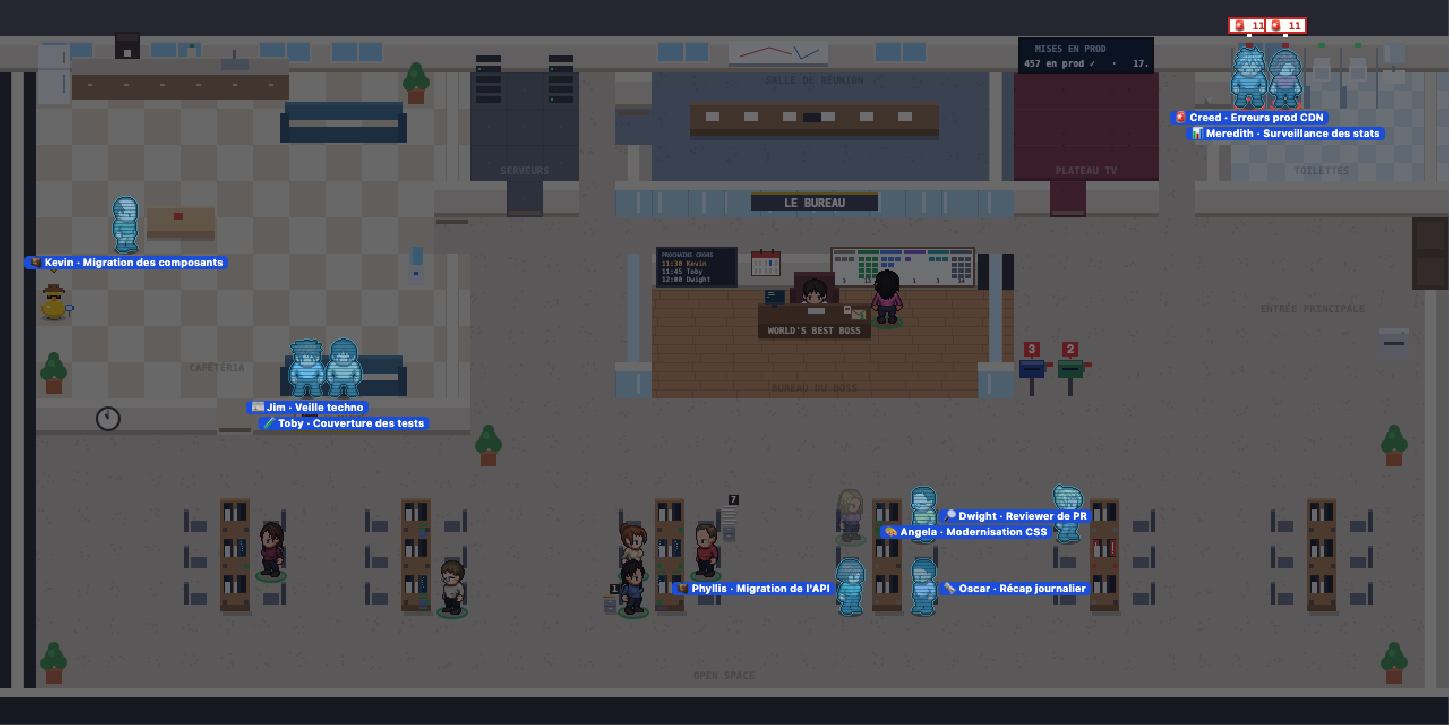
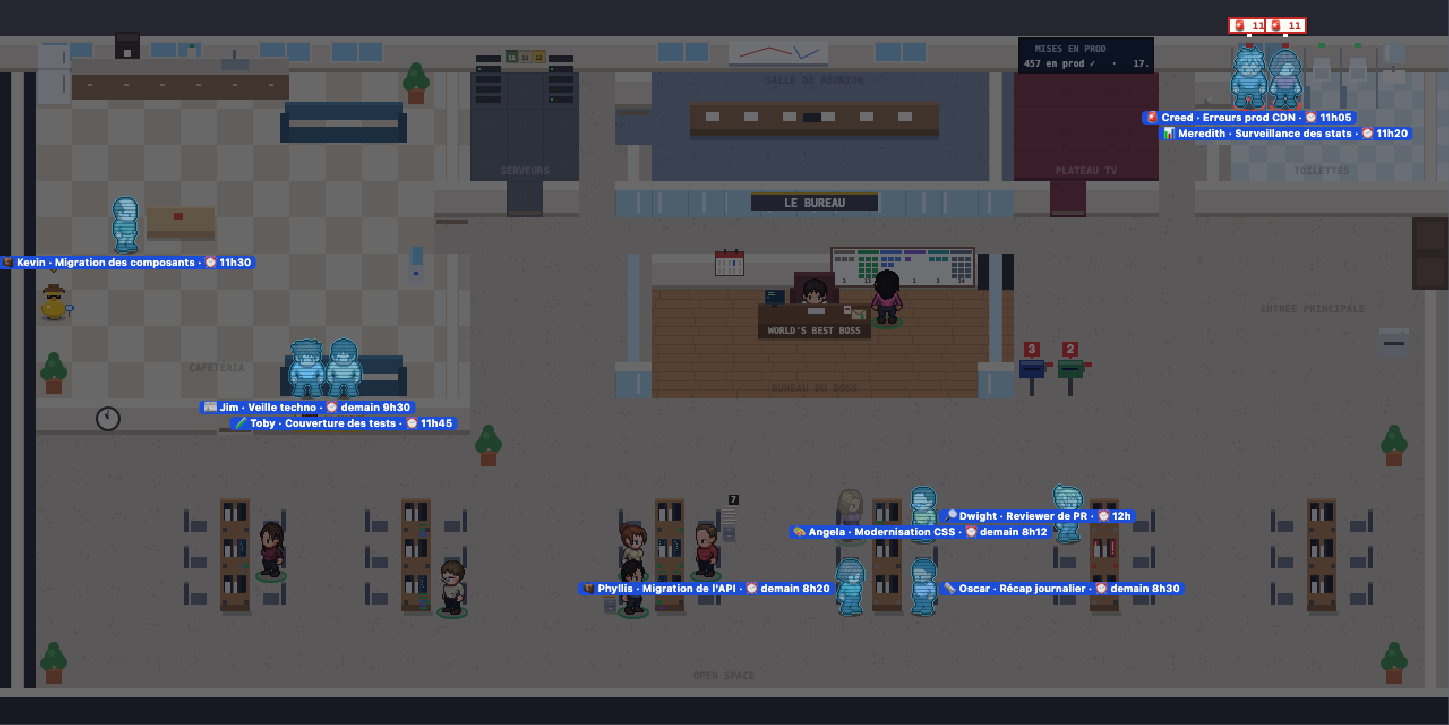
feat(page): programme des agents cron en clair, relance sans paramètres (#73)
## 🎯 Quoi et pourquoi
Sur la fiche de Dwight (agent « Reviewer de PR »), « ↻ Relancer »
ouvrait une carte Kronn qui demandait des « Paramètres » : le bouton et
« ▶ Lancer… » visent le même workflow « Le Bureau · relancer un workflow
», et sa variable `params` n'était liée que par « ▶ Lancer… ». Et rien
sur la fiche ni sur le plan ne disait qu'un agent est un cron, quand il
passe, ni à quelle heure : Kronn lit les crons en UTC (Dwight passe en
fait de 9h30 à 21h30, heure de Paris).

## 🔧 Changements
- Fiche d'un agent cron : section « ⏰ Son programme », un bloc par cron
: programme en clair à l'heure du bureau (« Du lundi au vendredi toutes
les 3 heures de 9h30 à 21h30 »), anneau jusqu'au prochain passage («
Prochain passage aujourd'hui à 12h (dans 1 h) »), dernier passage du
jour, et « ↻ Passer maintenant » sans rien à remplir. Ses crons ne
reviennent plus dans « Relancer » (réservé aux workflows manuels).
- Plan et panneau : l’étiquette d’un agent cron au repos donne l’heure
de son prochain passage (« ⏰ 12h », « ⏰ demain 8h20 », « ⏰ lundi 9h30
»), et la liste « Les agents » du panneau l’affiche sous son état ; rien
quand il travaille ni en mode TV.
- `page/src/34-cron.js` : `cronText`, `cronNext` / `cronPrev` (8 jours,
gardés à la minute), `whenTxt`, `agentNext` ; le `nextFire` du panneau
Fraîcheur est remplacé par `cronNext` (texte de reprise : « 7h » au lieu
de « 7h00 »).
- Relance sans paramètres : `bureau-relaunch` lie aussi `params` à une
[…]

diff --git a/tests/cron.test.js b/tests/cron.test.js
@@ -1,0 +1,78 @@
+// Agent cron : programme en clair à l'heure du bureau (Kronn lit les crons en UTC), prochain passage sur la fiche
+// (« ⏰ Son programme », « ↻ Passer maintenant ») et dans l'étiquette du plan ; relance sans carte à remplir.
+'use strict';
+const test = require('node:test');
+const assert = require('node:assert/strict');
+const {load} = require('./helpers/page.js');
+
+const {run} = load();
+const J = code => JSON.parse(run('JSON.stringify(' + code + ')'));
+const OCT = 'Date.parse("2026-10-17T20:00:00Z")'; // samedi 17 octobre, 22h à Paris (heure d'été)
+const JAN = 'Date.parse("2026-01-14T10:00:00Z")'; // mercredi 14 janvier, heure d'hiver
+
+test('programme en clair : heures UTC du cron dites à l\'heure de Paris, jours regroupés', () => {
+  const txt = (e, t = OCT) => J(`cronText(${JSON.stringify(e)}, ${t})`);
+  assert.equal(txt('30 7,10,13,16,19 * * 1-5'), 'Du lundi au vendredi toutes les 3 heures de 9h30 à 21h30');
+  assert.equal(txt('30 7,10,13,16,19 * * 1-5', JAN), 'Du lundi au vendredi toutes les 3 heures de 8h30 à 20h30', 'heure d\'hiver');
+  assert.equal(txt('45 9 * * *'), 'Tous les jours à 11h45');
+  assert.equal(txt('30 7 * * 1-5'), 'Du lundi au vendredi à 9h30');
+  assert.equal(txt('0 12 * * 5'), 'Le vendredi à 14h');
+  assert.equal(txt('5 * * * *'), 'Toutes les heures, à la minute 05');
+  assert.equal(txt('0 * * * *'), 'Toutes les heures pile');
+  assert.equal(txt('*/10 4-20 * * *'), 'Toutes les 10 min de 6h à 22h50');
+  assert.equal(txt('* 4-20 * * *'), 'Toutes les minutes de 6h à 22h59');
+  assert.equal(txt('0 8 * * 6,0'), 'Le week-end à 10h');
+  assert.equal(txt('0 8 * * 1,3'), 'Le lundi et mercredi à 10h');
+  assert.equal(txt('0 7,9 * * 1'), 'Le lundi à 9h et 11h');
+  assert.equal(txt('0 6 1 1 *'), 'Cron « 0 6 1 1 * » (heure UTC)', 'rien dans les 7 jours : le cron tel quel');
+});
+
+test('prochain et précédent passage ; « demain », jour de la semaine, « dans … »', () => {
+  const e = JSON.stringify('30 7,10,13,16,19 * * 1-5');
+  const nx = J(`cronNext(${e}, ${OCT})`);
+  assert.equal(new Date(nx).toISOString(), '2026-10-19T07:30:00.000Z', 'lundi 9h30 à Paris');
+  assert.equal(new Date(J(`cronPrev(${e}, ${OCT})`)).toISOString(), '2026-10-16T19:30:00.000Z', 'vendredi 21h30');
+  assert.equal(J(`whenTxt(${nx}, ${OCT})`), 'lundi 9h30');
+  assert.equal(J(`whenTxt(${nx}, ${nx} - 3600e3*12)`), 'demain 9h30');
+  assert.equal(J(`whenTxt(${nx}, ${nx} - 3600e3)`), '9h30');
+  assert.equal(J(`whenTxt(${nx}, ${nx} - 3600e3, 1)`), "aujourd'hui à 9h30");
+  assert.equal(J(`whenTxt(${nx}, ${OCT}, 1)`), 'lundi à 9h30');
+  assert.equal(J(`inTxt(65*60e3)`), 'dans 1 h 05');
+  assert.equal(J(`inTxt(30e3)`), 'dans 1 min');
+  assert.equal(J(`inTxt(3*864e5)`), 'dans 3 j');
+  assert.equal(J(`cronNext("0 6 1 1 *", ${OCT})`), null, 'plus de 8 jours : pas de prochain passage');
+});
+
+test('crons d\'un agent (DATA.crons) : prochain passage le plus proche ; étiquette du plan, sauf au travail ou en mode TV', () => {
+  run(`DATA.crons=[{wf:'aaaa1111-0000',name:'Revue',schedule:'0 10 * * *'},{wf:'bbbb2222-0000',name:'Veille',schedule:'0 8 * * *'}];
+    var AG={key:'zz',name:'Dwight',role:'Revue des PR',wf:['aaaa1111','bbbb2222','cccc3333'],runs:[],_st:{st:'idle'}};T=${OCT};`);
+  assert.deepEqual(J('cronsOf(AG).map(x=>x.name)'), ['Revue', 'Veille']);
+  assert.equal(new Date(J('agentNext(AG,T)')).toISOString(), '2026-10-18T08:00:00.000Z');
+  assert.match(J('labelText(AG)'), / · ⏰ demain 10h$/);
+  assert.equal(J('cronTag(AG)'), '⏰ demain 10h', 'même texte sous son état, dans la liste du panneau');
+  assert.doesNotMatch(J('(AG._st={st:"work"},labelText(AG))'), /⏰/, 'au travail : pas d\'heure');
+  assert.doesNotMatch(J('(AG._st={st:"idle"},TV=true,labelText(AG))'), /⏰/, 'mode TV');
+  run('TV=false');
+  assert.doesNotMatch(J('labelText({key:"m",name:"Clark",role:"Issue GitHub",wf:["dddd4444"],runs:[],_st:{}})'), /⏰/, 'agent manuel');
+});
+
+test('fiche : « ⏰ Son programme » pour chaque cron, « ↻ Passer maintenant » lié à la ligne (wf_id et params), hors de « Relancer »', () => {
+  run(`document.createElement = t => ({tag: t, attrs: {}, kids: [], style: {}, dataset: {}, set innerHTML(v) { this.html = v; }, get innerHTML() { return this.html || ''; },
+      setAttribute(k, v) { this.attrs[k] = v; }, getAttribute(k) { return this.attrs[k]; }, appendChild(x) { this.kids.push(x); }, append(...x) { this.kids.push(...x); },
+      addEventListener() {}});
+    var MO = typeof MutationObserver === 'undefined' ? null : MutationObserver; MutationObserver = function () { this.observe = () => {}; };
+    kronnModal = () => {}; COLLAPSED = {};
+    ACTIONS.relaunch = true; TV = false;
+    RELAUNCH = [{wf: 'aaaa1111-0000', name: 'Revue', trigger: 'cron', params: ''}, {wf: 'cccc3333-0000', name: 'Manuel', trigger: 'manual', params: ''}];
+    var SIDE = {kids: [], appendChild(x) { this.kids.push(x); }};`);
+  run('programmeBlock(SIDE, AG); relaunchBlock(SIDE, AG);');
+  const out = J(`(() => { const all = []; const walk = n => { if (!n) return; all.push(n); (n.kids || []).forEach(walk); }; SIDE.kids.forEach(walk);
+    return {heads: all.filter(n => n.tag === 'h2').map(n => n.html), btns: all.filter(n => n.tag === 'button').map(n => ({t: n.textContent, b: n.attrs['data-kronn-bindings']})),
+      html: all.map(n => n.html || '').join('')}; })()`);
+  assert.match(out.heads[0], /⏰ Son programme/);
+  assert.match(out.heads[1], /Relancer/);
+  assert.match(out.html, /Tous les jours à 12h/);
+  assert.match(out.html, /Prochain passage demain à 12h \(dans 14 h\)/);
+  assert.deepEqual(out.btns, [{t: '↻ Passer maintenant', b: '{"wf_id":"aaaa1111-0000","params":"aaaa1111-0000"}'},
+    {t: '↻ Relancer', b: '{"wf_id":"cccc3333-0000","params":"cccc3333-0000"}'}], 'le cron n\'est pas relancé deux fois');
+});

diff --git a/page/src/55-actions.js b/page/src/55-actions.js
@@ -213,28 +213,48 @@ function askBlock(side,c){
     host.appendChild(b);kronnModal(host,b,'Poser une question à '+c.name);box.appendChild(host);
   }
 }
+// bouton « ↻ » d'un workflow relançable (ligne de gates.workflows) : page action « bureau-relaunch », sans rien à saisir
+// (params lié à la colonne vide de la ligne, comme wf_id) ; « En cours… » tant qu'un run de ce workflow tourne
+function relaunchBtn(host,w,c,label,note){
+  const busy=c.runs.some(r=>String(r.wf).startsWith(String(w.wf).slice(0,8))&&['Running','Pending','WaitingApproval'].includes(r.status)&&r._s<=T);
+  const b=document.createElement('button');b.textContent=busy?'En cours…':label;b.disabled=busy;
+  if(busy){host.appendChild(b);return;}
+  b.setAttribute('data-kronn-action','bureau-relaunch');b.setAttribute('data-kronn-bindings',JSON.stringify({wf_id:w.wf,params:w.wf}));
+  const n=document.createElement('div');n.className='note';n.style.margin='6px 0 0';n.textContent=note;
+  new MutationObserver(()=>{
+    const v=b.getAttribute('data-kronn-action-state');
+    if(v==='succeeded')n.innerHTML='<b style="color:var(--ok)">✓ Relancé.</b> L\'agent se met au travail d\'ici une minute sur le plan.';else if(v==='failed')n.innerHTML='<b style="color:var(--err)">Relance refusée</b> (déjà en cours ?). Détail dans la carte.';
+  }).observe(b,{attributes:true,attributeFilter:['data-kronn-action-state']});
+  host.append(b,n);kronnModal(host,b,'Relancer un workflow');
+}
+const lastRun=(c,w)=>c.top&&c.top.filter(r=>String(r.wf).startsWith(String(w.wf).slice(0,8))&&r._s<=T).slice(-1)[0];
+// agent cron : « ⏰ Son programme », un bloc par cron (programme en clair, anneau jusqu'au prochain passage, dernier run)
+// et « ↻ Passer maintenant » s'il est relançable ; ses crons ne reviennent pas dans « Relancer »
+function programmeBlock(side,c){
+  const list=cronsOf(c);if(!list.length)return;
+  const box=foldSection(side,'programme','⏰ Son programme',null,true);
+  for(const x of list){
+    const nx=cronNext(x.schedule,T), pv=cronPrev(x.schedule,T), last=lastRun(c,x);
+    const frac=nx&&pv?(T-pv)/(nx-pv):0;
+    const host=document.createElement('div');host.className='relaunch rl-cron';host.setAttribute('data-kronn-action-slot-host','');
+    host.innerHTML=`<div class="rl-n">${esc(clean(x.name))}</div><div class="cronbox"><span class="ring">${freshRing(frac,28)}</span><div><b>${esc(cronText(x.schedule,T))}</b><small>`+
+      (nx!=null?'Prochain passage '+whenTxt(nx,T,1)+' ('+inTxt(nx-T)+')':'Pas de passage cette semaine')+(last?' · dernier à '+hhm(last._s)+' : '+esc((STATUS_TXT[last.status]||last.status).toLowerCase()):'')+'</small></div></div>';
+    const w=ACTIONS.relaunch&&!TV&&RELAUNCH.find(r=>r.wf===x.wf&&!r.bureau);
+    if(w)relaunchBtn(host,w,c,'↻ Passer maintenant','Rien à remplir : un passage en plus, tout de suite. Son programme ne change pas.');
+    box.appendChild(host);
+  }
+}
 function relaunchBlock(side,c){
   if(!ACTIONS.relaunch)return;
   if(!c.wf||!c.wf.length)return;
-  const list=RELAUNCH.filter(w=>c.wf.includes(String(w.wf).slice(0,8)));if(!list.length)return;
+  const crons=cronsOf(c).map(x=>x.wf);
+  const list=RELAUNCH.filter(w=>c.wf.includes(String(w.wf).slice(0,8))&&!crons.includes(w.wf));if(!list.length)return;
   const box=foldSection(side,'relance','Relancer',list.length,true);
   for(const w of list){
     const host=document.createElement('div');host.className='relaunch';host.setAttribute('data-kronn-action-slot-host','');
-    const busy=c.runs.some(r=>String(r.wf).startsWith(String(w.wf).slice(0,8))&&['Running','Pending','WaitingApproval'].includes(r.status)&&r._s<=T);
-    const last=c.top&&c.top.filter(r=>String(r.wf).startsWith(String(w.wf).slice(0,8))&&r._s<=T).slice(-1)[0];
+    const last=lastRun(c,w);
     host.innerHTML=`<div class="rl-n">${esc(clean(w.name))}</div><div class="rl-s">${w.trigger==='cron'?'Cron':'Manuel'}${last?' · dernier run '+hm(last._s)+' : '+esc(STATUS_TXT[last.status]||last.status):' · pas encore lancé aujourd’hui'}</div>`;
-    const b=document.createElement('button');b.textContent=busy?'En cours…':'↻ Relancer';b.disabled=busy;
-    if(!busy){b.setAttribute('data-kronn-action','bureau-relaunch');b.setAttribute('data-kronn-bindings',JSON.stringify({wf_id:w.wf}));
-      const n=document.createElement('div');
-      n.className='note';
-      n.style.margin='6px 0 0';
-      n.textContent='Lance tout de suite un nouveau run de ce workflow, en plus de ses passages prévus.';
-      new MutationObserver(()=>{
-        const v=b.getAttribute('data-kronn-action-state');
-        if(v==='succeeded')n.innerHTML='<b style="color:var(--ok)">✓ Relancé.</b> L\'agent se met au travail d\'ici une minute sur le plan.';else if(v==='failed')n.innerHTML='<b style="color:var(--err)">Relance refusée</b> (déjà en cours ?). Détail dans la carte.';
-      }).observe(b,{attributes:true,attributeFilter:['data-kronn-action-state']});
-      host.append(b,n);kronnModal(host,b,'Relancer un workflow');}
-    else host.appendChild(b);
+    relaunchBtn(host,w,c,'↻ Relancer','Lance tout de suite un nouveau run de ce workflow, en plus de ses passages prévus.');
     box.appendChild(host);
   }
 }

diff --git a/page/src/34-cron.js b/page/src/34-cron.js
@@ -1,0 +1,46 @@
+// programme d'un agent cron en clair : Kronn lit les crons en UTC (cronMatch), on les dit à l'heure du bureau (RHYTHM.timezone).
+// cronText : les passages de la semaine (7 jours entiers depuis minuit), regroupés par jours qui ont les mêmes heures ;
+// cronNext / cronPrev : passage suivant / précédent (8 jours au plus), gardés à la minute ; agentNext : le plus proche des
+// crons d'un agent (DATA.crons).
+const WEEK=Object.keys(DAY_FR); // lundi d'abord
+const hhm=t=>{const p=parisHM(t);return p.h+'h'+(p.m?String(p.m).padStart(2,'0'):'');};
+const andList=a=>a.length<2?a[0]:a.slice(0,-1).join(', ')+' et '+a[a.length-1];
+function cronDays(ds){
+  const k=WEEK.map((d,i)=>ds.includes(d)?i:-1).filter(i=>i>=0), n=k.length, f=i=>DAY_FR[WEEK[i]];
+  return n===7?'tous les jours':n===2&&k[0]===5?'le week-end':n>2&&k[n-1]-k[0]===n-1?'du '+f(k[0])+' au '+f(k[n-1]):'le '+andList(k.map(f));
+}
+function cronTimes(ts){
+  const st=(ts[1]-ts[0])/60e3, n=ts.length;
+  if(n<4||ts.some((t,i)=>i&&t-ts[i-1]!==st*60e3))return 'à '+andList(ts.map(hhm));
+  if(st===60&&n===24){const m=parisHM(ts[0]).m;return 'toutes les heures'+(m?', à la minute '+String(m).padStart(2,'0'):' pile');}
+  return 'toutes les '+(st===1?'minutes':st===60?'heures':st%60?st+' min':st/60+' heures')+' de '+hhm(ts[0])+' à '+hhm(ts[n-1]);
+}
+const CRON_MEMO={};
+function cronMemo(k,f){if(!(k in CRON_MEMO)){if(Object.keys(CRON_MEMO).length>400)for(const x in CRON_MEMO)delete CRON_MEMO[x];CRON_MEMO[k]=f();}return CRON_MEMO[k];}
+function cronText(e,t){
+  return cronMemo('t'+e+parisDay(t),()=>{
+    const by={},g={};let m=parisMidnight(t);
+    for(let i=0;i<10080;i++,m+=60e3)if(cronMatch(e,new Date(m)))(by[parisHM(m).wd]=by[parisHM(m).wd]||[]).push(m);
+    for(const wd in by){const k=by[wd].map(hhm).join();(g[k]=g[k]||{wd:[],ts:by[wd]}).wd.push(wd);}
+    const out=Object.values(g).map(x=>{const d=cronDays(x.wd),h=cronTimes(x.ts);return d[0]==='t'&&h[0]==='t'?h:d+' '+h;});
+    return out.length?out.join(' ; ').replace(/^./,x=>x.toUpperCase()):'Cron « '+e+' » (heure UTC)';
+  });
+}
+function cronStep(e,t,dir){
+  return cronMemo(dir+e+Math.floor(t/60e3),()=>{
+    let m=Math.floor(t/60e3)*60e3+(dir>0?60e3:0);
+    for(let i=0;i<11520;i++,m+=dir*60e3)if(cronMatch(e,new Date(m)))return m;
+    return null;
+  });
+}
+const cronNext=(e,t)=>cronStep(e,t,1), cronPrev=(e,t)=>cronStep(e,t,-1);
+// « 12h », « demain 8h20 », « lundi 9h30 » ; long : « aujourd'hui à 12h », « demain à 8h20 »
+function whenTxt(at,t,long){
+  const d=parisDay(at), day=d===parisDay(t)?'':d===parisDay(t+864e5)?'demain':DAY_FR[parisHM(at).wd];
+  return long?(day||"aujourd'hui")+' à '+hhm(at):(day&&day+' ')+hhm(at);
+}
+const inTxt=n=>{const m=Math.max(1,Math.round(n/60e3));return 'dans '+(n>=1296e5?Math.round(n/864e5)+' j':m%60?hmin(m):m/60+' h');};
+const cronsOf=c=>((DATA&&DATA.crons)||[]).filter(x=>x.schedule&&(c.wf||[]).some(w=>String(x.wf).startsWith(String(w).slice(0,8))));
+const agentNext=(c,t)=>cronsOf(c).map(x=>cronNext(x.schedule,t)).filter(n=>n!=null).sort((a,b)=>a-b)[0];
+// « ⏰ demain 8h20 » d'un agent cron au repos (étiquette du plan, liste du panneau) ; rien au travail ni en mode TV
+const cronTag=c=>{const n=!TV&&!AGENT_BUSY.includes((c._st||{}).st)&&agentNext(c,T);return n?'⏰ '+whenTxt(n,T):'';};

diff --git a/page/src/33-freshness.js b/page/src/33-freshness.js
@@ -15,17 +15,11 @@ function cronOf(key){
   const id=(CFG.workflows||{})[key]; if(!id||!DATA)return null;
   const c=(DATA.crons||[]).find(x=>x.wf===id);return c&&c.schedule||null;
 }
-// prochain déclenchement du cron strictement après t (pas d'une minute, au plus 3 jours)
-function nextFire(schedule,t){
-  let m=Math.floor(t/60e3)*60e3+60e3;
-  for(let i=0;i<3*1440;i++,m+=60e3)if(cronMatch(schedule,new Date(m)))return m;
-  return null;
-}
 // état d'une source à l'instant now : âge, arrivée prévue, retard
 function freshness(src,now){
   const gen=ms(src.gen()); if(!gen)return null;
   const sch=cronOf(src.key), run=Math.min(60e3,Math.max(2e3,gen-Math.floor(gen/60e3)*60e3)); // durée du dernier run
-  const next=sch?nextFire(sch,gen):gen+src.period, eta=next!=null?next+run+3e3:null;
+  const next=sch?cronNext(sch,gen):gen+src.period, eta=next!=null?next+run+3e3:null;
   return {src,gen,age:now-gen,eta,late:eta!=null&&now>eta+src.grace?now-eta:0};
 }
 // anneau de progression (couleur = currentColor)
@@ -40,8 +34,7 @@ const DAY_FR={Mon:'lundi',Tue:'mardi',Wed:'mercredi',Thu:'jeudi',Fri:'vendredi',
 function waitTxt(f,now){
   const left=f.eta-now, frac=Math.min(1,Math.max(0,(now-f.gen)/Math.max(1,f.eta-f.gen)));
   if(f.eta-f.gen>3*f.src.period&&left>5*60e3){ // le cron ne tourne pas à ces heures-là
-    const d=parisDay(f.eta), when=d===parisDay(now)?'':d===parisDay(now+864e5)?'demain ':DAY_FR[parisHM(f.eta).wd]+' ';
-    return {txt:'en pause · reprise '+when+'à '+hm(f.eta).replace(':','h').replace(/^0/,''),frac:0,paused:true};
+    return {txt:'en pause · reprise '+whenTxt(f.eta,now,1).replace("aujourd'hui ",''),frac:0,paused:true};
   }
   if(left>=120e3)return {txt:'dans '+Math.ceil(left/60e3)+' min',frac};
   return {txt:'dans '+Math.ceil(left/1e3)+' s',frac};
@@ -128,6 +121,6 @@ function freshRelaunch(td,key,label,urgent){
   const host=document.createElement('div');host.className='relaunch fr-rl';host.setAttribute('data-kronn-action-slot-host','');
   host.innerHTML=`<div class="rl-n">${esc(label)}</div><div class="rl-s">Lance tout de suite un nouveau passage de ce cron du Bureau, en plus de ses passages prévus.</div>`;
   const b=document.createElement('button');b.textContent=urgent?'↻ Relancer':'↻';if(!urgent){b.className='rl-mini';b.title='Rafraîchir maintenant';b.setAttribute('aria-label','Rafraîchir '+label+' maintenant');}
-  b.setAttribute('data-kronn-action','bureau-relaunch');b.setAttribute('data-kronn-bindings',JSON.stringify({wf_id:w.wf}));
+  b.setAttribute('data-kronn-action','bureau-relaunch');b.setAttribute('data-kronn-bindings',JSON.stringify({wf_id:w.wf,params:w.wf}));
   host.appendChild(b);td.appendChild(host);kronnModal(host,b,'Relancer un cron du Bureau');
 }

diff --git a/page/office_template.html b/page/office_template.html
@@ -91,7 +91,7 @@
 <div id="tvticker"></div>
 <div id="tvwho" aria-live="off"></div>
 <script type="application/kronn-action" data-action-id="bureau-ask">{"kind":"quick_prompt","target_id":"__ASK_QP__","values":[{"name":"wf_id","provenance":"dynamic_binding","source_ref":"<page.dataset.gates.askable.find(wf).wf>"},{"name":"question","provenance":"user_input"}]}</script>
-<script type="application/kronn-action" data-action-id="bureau-relaunch">{"kind":"workflow","target_id":"__RELAUNCH_WF__","values":[{"name":"wf_id","provenance":"dynamic_binding","source_ref":"<page.dataset.gates.workflows.find(wf).wf>"}]}</script>
+<script type="application/kronn-action" data-action-id="bureau-relaunch">{"kind":"workflow","target_id":"__RELAUNCH_WF__","values":[{"name":"wf_id","provenance":"dynamic_binding","source_ref":"<page.dataset.gates.workflows.find(wf).wf>"},{"name":"params","provenance":"dynamic_binding","source_ref":"<page.dataset.gates.workflows.find(wf).params>"}]}</script>
 <script type="application/kronn-action" data-action-id="bureau-gate">{"kind":"workflow","target_id":"__GATE_WF__","values":[{"name":"run_id","provenance":"dynamic_binding","source_ref":"<page.dataset.gates.grows.find(id).run>"},{"name":"decision","provenance":"dynamic_binding","source_ref":"<page.dataset.gates.grows.find(id).decision>"},{"name":"comment","provenance":"user_input"}]}</script>
 <script type="application/kronn-action" data-action-id="bureau-answer">{"kind":"workflow","target_id":"__ANSWER_WF__","values":[{"name":"choice","provenance":"dynamic_binding","source_ref":"<page.dataset.gates.qrows.find(id).id>"},{"name":"text","provenance":"user_input"}]}</script>
 <script type="application/kronn-action" data-action-id="bureau-impl">{"kind":"workflow","target_id":"__IMPL_WF__","values":[{"name":"jira_ticket_key","provenance":"dynamic_binding","source_ref":"<page.dataset.actions.tickets.find(key).key>"}]}</script>

diff --git a/page/src/styles.css b/page/src/styles.css
@@ -76,7 +76,7 @@ input[type=range]{flex:1;min-width:160px;accent-color:var(--accent)}
 .who .n{font-weight:600}
 .who .r{color:var(--muted);font-size:12px;white-space:nowrap;overflow:hidden;text-overflow:ellipsis}
 .who .t{flex:1;min-width:0}
-.who .s{font-size:11px;color:var(--muted);white-space:nowrap}
+.who .s{font-size:11px;color:var(--muted);white-space:nowrap;text-align:right}.who .nx{display:block;font-size:10px}
 .face{display:flex;gap:12px;align-items:center;margin-bottom:12px}
 .face canvas{width:64px;height:64px}
 .face .n{font-size:18px;font-weight:700}
@@ -298,6 +298,7 @@ body.tv #tvticker{display:block;position:fixed;left:0;right:0;bottom:0;height:48
 .relaunch>button{grid-column:2;grid-row:1/3}
 .relaunch>.note{grid-column:1/3}
 .relaunch.kmodal{display:block}
+.rl-cron{display:block}.rl-cron>button{margin-top:6px}.cronbox{display:flex;gap:10px;align-items:center;margin:6px 0 0}.cronbox .ring{color:var(--accent);flex:none;display:flex}.cronbox b{display:block;font-size:13px}.cronbox small{color:var(--muted);font-size:11px}
 .rl-form{display:block}.rl-f{margin-top:8px}.rl-form>button{width:100%}.rl-form>button:disabled{opacity:.5;cursor:not-allowed}.rl-why{margin:6px 0 0}.rl-f textarea{resize:vertical}
 .rl-f .req{color:var(--warn)}.rl-err{display:block;color:var(--err);font-weight:400}.rl-err:empty,.rl-why:empty{display:none}
 .rl-form.kmodal .rl-f,.rl-form.kmodal .rl-why{display:none}

diff --git a/page/src/50-panel.js b/page/src/50-panel.js
@@ -173,7 +173,8 @@ function drawSide(side){
       b.appendChild(t);
       const s=document.createElement('div');
       s.className='s';
-      s.innerHTML=`<span class="dot" style="background:${ST_CSS[st.st]||'var(--idle)'}"></span>${esc(shortSt(st))}`;
+      const nx=famOf(c)==='wf'&&cronTag(c); // agent cron au repos : son prochain passage sous son état
+      s.innerHTML=`<span class="dot" style="background:${ST_CSS[st.st]||'var(--idle)'}"></span>${esc(shortSt(st))}${nx?`<small class="nx">${esc(nx)}</small>`:''}`;
       b.appendChild(s);box.appendChild(b);
     }
     if(fk==='misc')box.appendChild(duckRow());
@@ -250,6 +251,7 @@ function drawSide(side){
   const stats=document.createElement('div');stats.className='stats';
   stats.innerHTML=`<div><b>${done.length}</b><span>runs</span></div><div><b style="color:var(--ok)">${ok}</b><span>réussis</span></div><div><b style="color:${ko?'var(--err)':'inherit'}">${ko}</b><span>échecs</span></div><div><b>${fmtTok(tok)}</b><span>tokens</span></div>`;
   side.appendChild(stats);
+  programmeBlock(side,c);
   runBlock(side,c);
   askBlock(side,c);
   relaunchBlock(side,c);

diff --git a/tests/logic.test.js b/tests/logic.test.js
@@ -243,12 +243,12 @@ test('fraîcheur : texte d\'attente en secondes, en minutes, puis en pause hors 
   };
   assert.match(w('live', '2026-10-03T06:49:20Z', '2026-10-03T06:49:40Z').txt, /^dans \d+ s$/);
   assert.equal(w('payroll', '2026-10-03T06:07:05Z', '2026-10-03T06:20:00Z').txt, 'dans 48 min');
-  // samedi 23h30 (Paris) : dernier passage à 21h59, reprise dimanche 7h00
+  // samedi 23h30 (Paris) : dernier passage à 21h59, reprise dimanche 7h
   const p = w('live', '2026-10-03T19:59:10Z', '2026-10-03T21:30:00Z');
-  assert.equal(p.txt, 'en pause · reprise demain à 7h00');
+  assert.equal(p.txt, 'en pause · reprise demain à 7h');
   assert.equal(p.paused, true);
   // après minuit : même jour
-  assert.equal(w('live', '2026-10-03T19:59:10Z', '2026-10-03T22:30:00Z').txt, 'en pause · reprise à 7h00');
+  assert.equal(w('live', '2026-10-03T19:59:10Z', '2026-10-03T22:30:00Z').txt, 'en pause · reprise à 7h');
 });
 
 test('durées : jamais « 4 h 60 » ni « 60 min »', () => {

diff --git a/tests/boot.test.js b/tests/boot.test.js
@@ -129,7 +129,7 @@ test('panneau Fraîcheur : « ↻ Relancer » si en retard, « ↻ » discret si
     ACTIONS.relaunch = true; TV = false;`);
   const btn = code => JSON.parse(run(`JSON.stringify((() => { const td = cell(); ${code}; const h = td.kids[0], b = h && h.kids.find(k => k.tag === 'button');
     return b ? {text: b.textContent, cls: b.className || '', action: b.attrs['data-kronn-action'], bind: b.attrs['data-kronn-bindings']} : null; })())`));
-  const bind = '{"wf_id":"wf-team"}';
+  const bind = '{"wf_id":"wf-team","params":"wf-team"}';
   assert.deepEqual(btn(`freshRelaunch(td, 'team', 'Équipe', true)`), {text: '↻ Relancer', cls: '', action: 'bureau-relaunch', bind});
   assert.deepEqual(btn(`freshRelaunch(td, 'team', 'Équipe', false)`), {text: '↻', cls: 'rl-mini', action: 'bureau-relaunch', bind});
   assert.equal(btn(`freshRelaunch(td, 'live', 'Direct', true)`), null, 'Direct : le cron live passe chaque minute');

diff --git a/page/src/41-people.js b/page/src/41-people.js
@@ -20,7 +20,8 @@ const agentTag=c=>famOf(c)==='wf'?agentIcon(c)+' ':''; // devant un prénom d'ag
 function labelText(c){
   if(famOf(c)!=='wf')return FAM[famOf(c)].ico+(c.apprentice?'🎓 ':'')+String(c.name||'').slice(0,24);
   const mode=(CFG.ui||{}).agent_label||(TV?'metier':'both'), job=agentShort(c);
-  return agentIcon(c)+' '+(mode==='office'||!job?String(c.name||'').slice(0,24):mode==='metier'?job:String(c.name||'').slice(0,14)+' · '+job);
+  const n=cronTag(c); // agent cron au repos : l'heure de son prochain passage
+  return agentIcon(c)+' '+(mode==='office'||!job?String(c.name||'').slice(0,24):mode==='metier'?job:String(c.name||'').slice(0,14)+' · '+job)+(n&&' · '+n);
 }
 let FILTER=null; // null = tout le monde ; sinon une famille mise en avant
 // workflows en hologramme : teinte cyan, lignes de balayage qui défilent, scintillement rare ; sur le sol beige,

diff --git a/workflows/gates_snapshot.py b/workflows/gates_snapshot.py
@@ -1,12 +1,13 @@
 """Gates en attente de validation, pour que la page Le Bureau puisse les décider (page action « bureau-gate »).
 
 Sortie (stdout, JSON parsé par l'étape CollectApiData) :
-  {generated_at, gates: [{run, wf, wf_name, gate, message, since}], workflows: [{wf, name, trigger, bureau?}], askable: [{wf, name}],
+  {generated_at, gates: [{run, wf, wf_name, gate, message, since}], workflows: [{wf, name, trigger, bureau?, params}], askable: [{wf, name}],
    projects: [{id, name}], ducks: [{id, title, project, updated, created, awaiting}],
    questions: [{id, disc, title, agent, bureau, since, question, context, options, rec, multiple, items, more_items}], qrows: [{id, q, disc}],
    grows: [{id, run, decision}], warnings: [texte]}
 `workflows` = ceux que la page peut relancer (page action « bureau-relaunch ») : actifs, hors Bureau, pas
-sous-workflow d'un autre, sans variable obligatoire à saisir ; plus les crons du Bureau, avec la clé de leur source (bureau).
+sous-workflow d'un autre, sans variable obligatoire à saisir ; plus les crons du Bureau, avec la clé de leur source (bureau) ;
+chaque ligne porte params = "" (liée au bouton, pour que la carte ne demande rien).
 `projects` = les projets Kronn, « Sans projet » (id « none ») en tête : un bouton « parler au canard » chacun (page action
 « bureau-duck », find(id)). `ducks` = les discussions du canard (titre « 🦆 … », duck_start.py) des 14 derniers jours,
 15 au plus, les plus récentes d'abord ; awaiting = des questions attendent ta réponse (pending_question_count, comme
@@ -85,12 +86,14 @@ for wid, (wf, full) in defs.items():
     # au lancement (source user_input, comme Réestimer : sinon le run partirait sans ticket)
     if any(v.get("required", True) and v.get("source") in (None, "", "user_input") for v in full.get("variables") or []):
         continue
-    relaunch.append({"wf": wid, "name": wf["name"], "trigger": wf.get("trigger_type")})
+    relaunch.append({"wf": wid, "name": wf["name"], "trigger": wf.get("trigger_type"), "params": ""})
+# params : toujours vide, lié à la variable params du workflow de relance par le bouton « ↻ » (bureau-relaunch) : la carte
+# Kronn n'a plus de champ « Paramètres » à montrer (réservé à « ▶ Lancer… », bureau-launch)
 # les crons du Bureau aussi (#44), clé de leur source (bureau) : « ↻ Relancer » sur leur ligne en échec ou en retard du
 # panneau Fraîcheur ; jamais comptés comme des agents pour autant (is_bureau)
 for key, wid in (CFG.get("workflows") or {}).items():
     if wid in defs:
-        relaunch.append({"wf": wid, "name": defs[wid][0]["name"], "trigger": defs[wid][0].get("trigger_type"), "bureau": key})
+        relaunch.append({"wf": wid, "name": defs[wid][0]["name"], "trigger": defs[wid][0].get("trigger_type"), "bureau": key, "params": ""})
 
 # workflows qui demandent une saisie (« ▶ Lancer… » des fiches d'agents, #64) : leurs variables à saisir, dont la page
 # fait un champ chacune (#67 : exemple, zone de texte ou liste, motif) puis la ligne « nom=valeur ; … » que relaunch.py

diff --git a/tools/compact.py b/tools/compact.py
@@ -129,12 +129,16 @@ def _glue(out, src, i):
 
 def _lines(text, join=False):
     """Indentation et blancs de fin retirés, lignes vides supprimées (y compris celles d'un commentaire retiré).
-    join (JS) : une ligne de code finie par « ; », « { » ou « , » est recollée à la suivante ; aucune insertion
-    automatique de point-virgule n'en dépend, et les sauts de ligne des chaînes et gabarits (_NL) ne sont pas touchés."""
+    join (JS) : une ligne de code finie par « ; », « { », « , » ou un « + » (pas « ++ », ni devant une ligne qui commence
+    par « + ») est recollée à la suivante ; aucune insertion automatique de point-virgule n'en dépend, et les sauts de
+    ligne des chaînes et gabarits (_NL) ne sont pas touchés. join="css" : toute ligne finie par « { », « ; » ou « } »."""
+    ends = ("{", ";", "}") if join == "css" else (";", "{", ",")
+    lines = [l for l in (l.strip() for l in text.split("\n")) if l]
     out = []
-    for l in (l.strip() for l in text.split("\n")):
-        if l:
-            out.append(l + ("" if join and l.endswith((";", "{", ",")) else "\n"))
+    for k, l in enumerate(lines):
+        glue = join and (l.endswith(ends) or join is True and l.endswith("+") and not l.endswith("++")
+                         and not (k + 1 < len(lines) and lines[k + 1].startswith("+")))
+        out.append(l + ("" if glue else "\n"))
     if out and not out[-1].endswith("\n"):
         out[-1] += "\n"  # le texte finit toujours par un saut de ligne (fichiers mis bout à bout)
     return "".join(out).replace(_NL, "\n")
@@ -160,5 +164,5 @@ def strip_css(src):
         else:
             out.append(c)
             i += 1
-    return _lines("".join(out))
+    return _lines("".join(out), "css")
 
